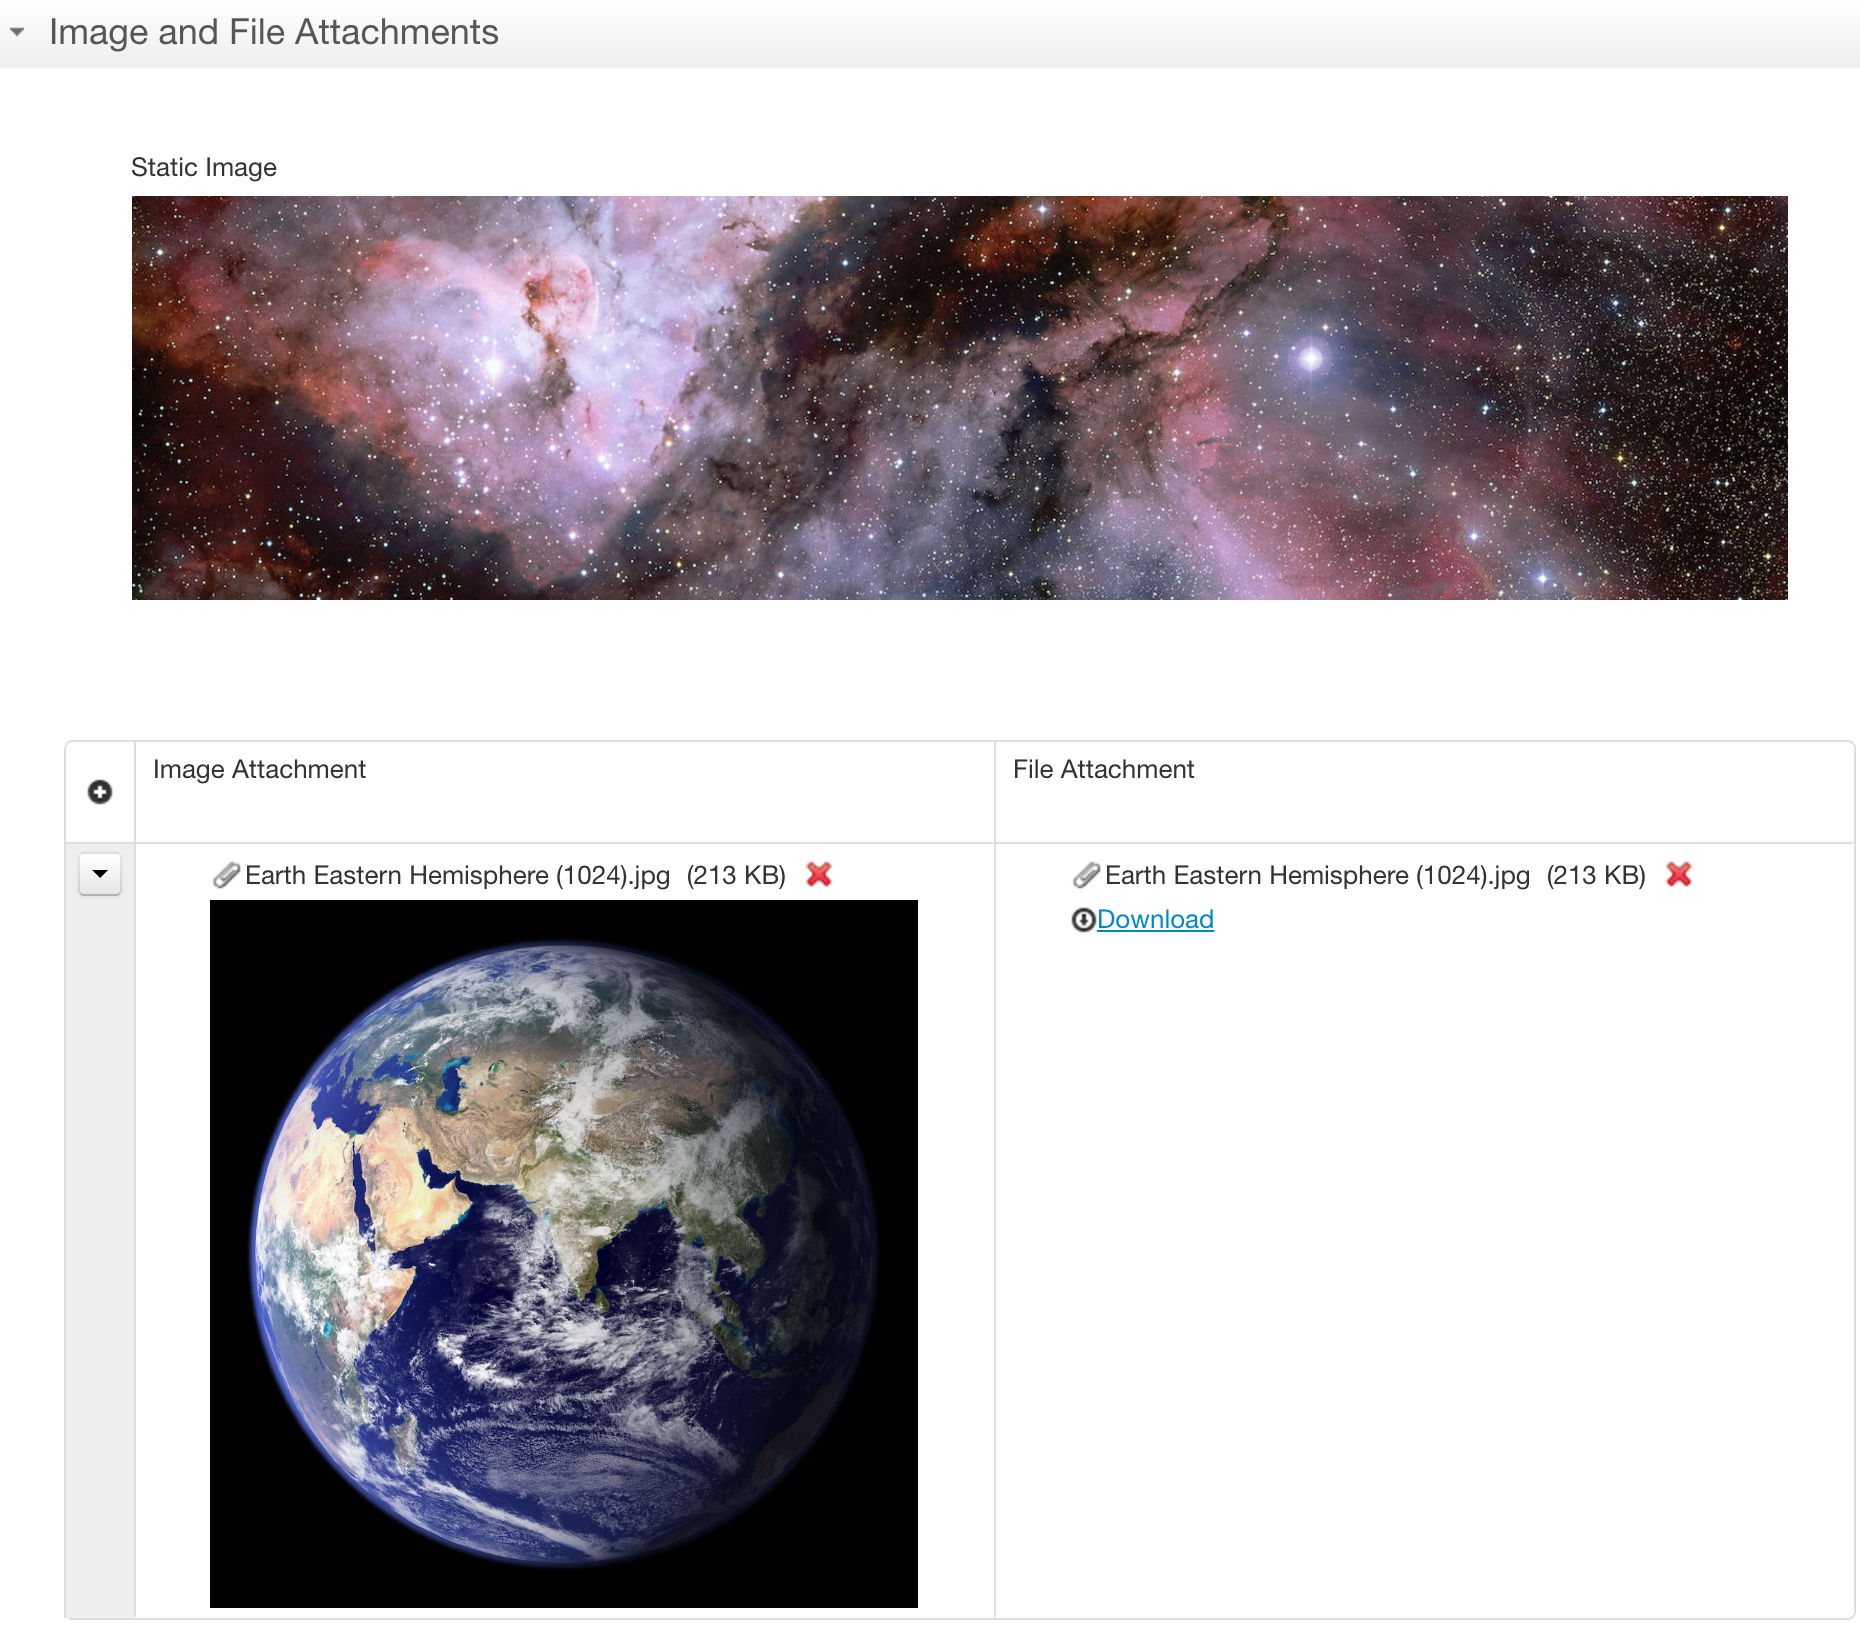
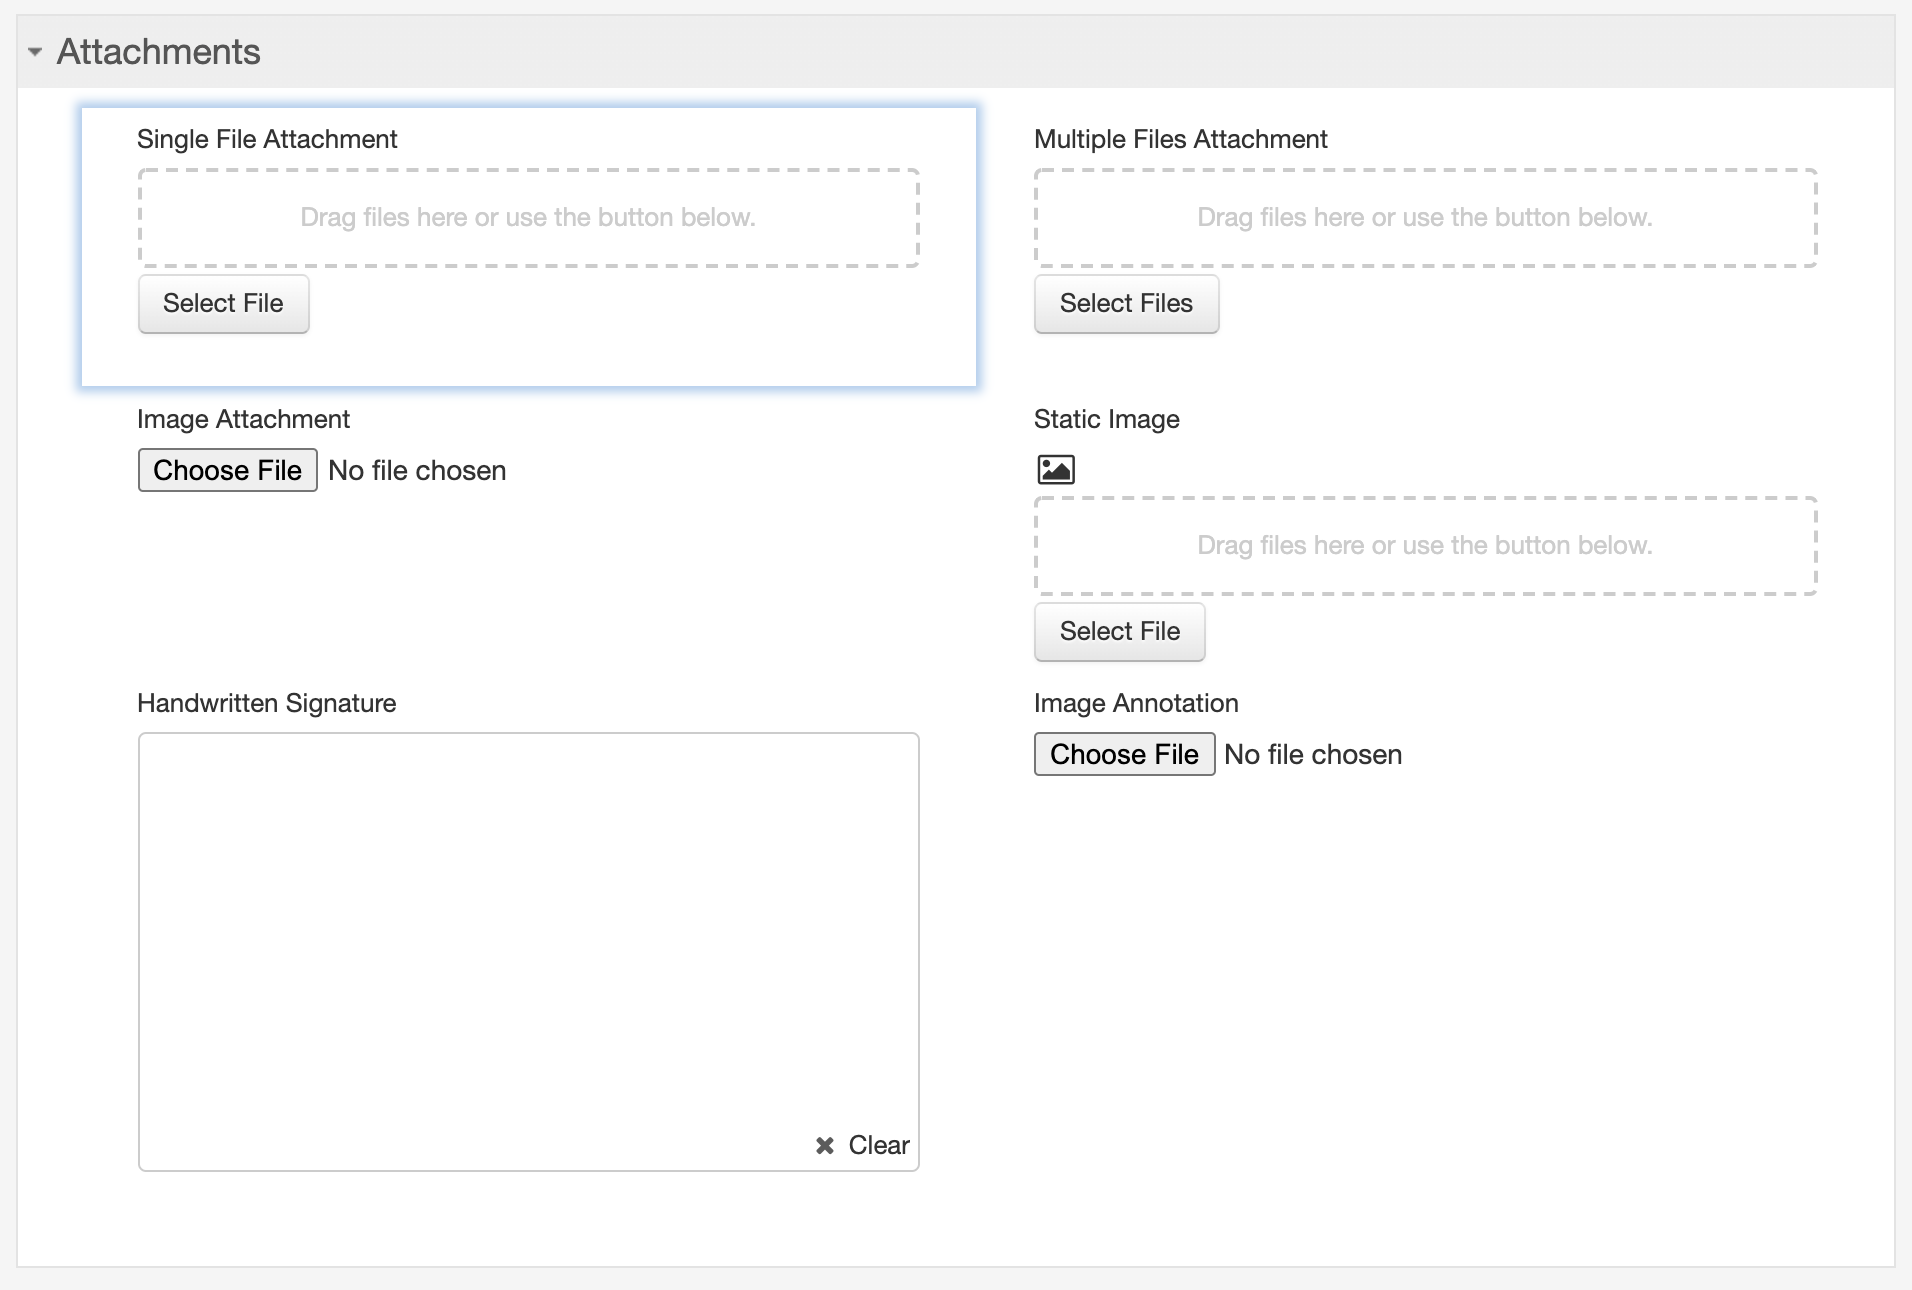
More updates on attachments

diff --git a/form-builder/toolbox.md b/form-builder/toolbox.md
@@ -199,17 +199,18 @@ _NOTE: The "Scrollable List" control is deprecated since Orbeon Forms 2016.1 and
 
 | Name | Description |
 | --- | --- |
-| **File Attachment**       | - file which can be attached to the form at design time or at runtime<br>- the file can also be replaced or downloaded once attached |
-| **Image Attachment**      | - image which can be attached to the form at design time or at runtime<br>- the image can also be changed at runtime once attached |
-| **Image**                 | - image attached to the form at design time<br>- it is not possible to change the image at runtime |
-| **Image Annotation**      | - image which can be attached to the form at design time or at runtime<br>- the image can then be annotated with graphic objects<br>- see also the [blog post](https://blog.orbeon.com/2013/08/new-image-annotation-control.html)<br>- SINCE Orbeon Forms 2016.3 |
-| **Handwritten Signature** | signature drawn with a mouse or touch screen |
+| **Single File Attachment**   | - file which can be attached to the form at design time or at runtime<br>- the file can also be replaced or downloaded once attached |
+| **Multiple File Attachments**| - [SINCE Orbeon Forms 2020.1]<br>- files which can be attached to the form at design time or at runtime<br>- the files can also be replaced or downloaded once attached |
+| **Image Attachment**         | - image which can be attached to the form at design time or at runtime<br>- the image can also be changed at runtime once attached |
+| **Image**                    | - image attached to the form at design time<br>- it is not possible to change the image at runtime |
+| **Image Annotation**         | - image which can be attached to the form at design time or at runtime<br>- the image can then be annotated with graphic objects<br>- see also the [blog post](https://blog.orbeon.com/2013/08/new-image-annotation-control.html)<br>- SINCE Orbeon Forms 2016.3 |
+| **Handwritten Signature**    | signature drawn with a mouse or touch screen |
 
 The controls appear like this at design time:
 
 ![](images/attachment-controls-design-time.png)
 
-And this is the Signature control ( which of course you usually leave blank at design time):
+This is the Handwritten Signature control (which of course you usually leave blank at design time):
 
 ![](images/signature-design-time.png)
 
